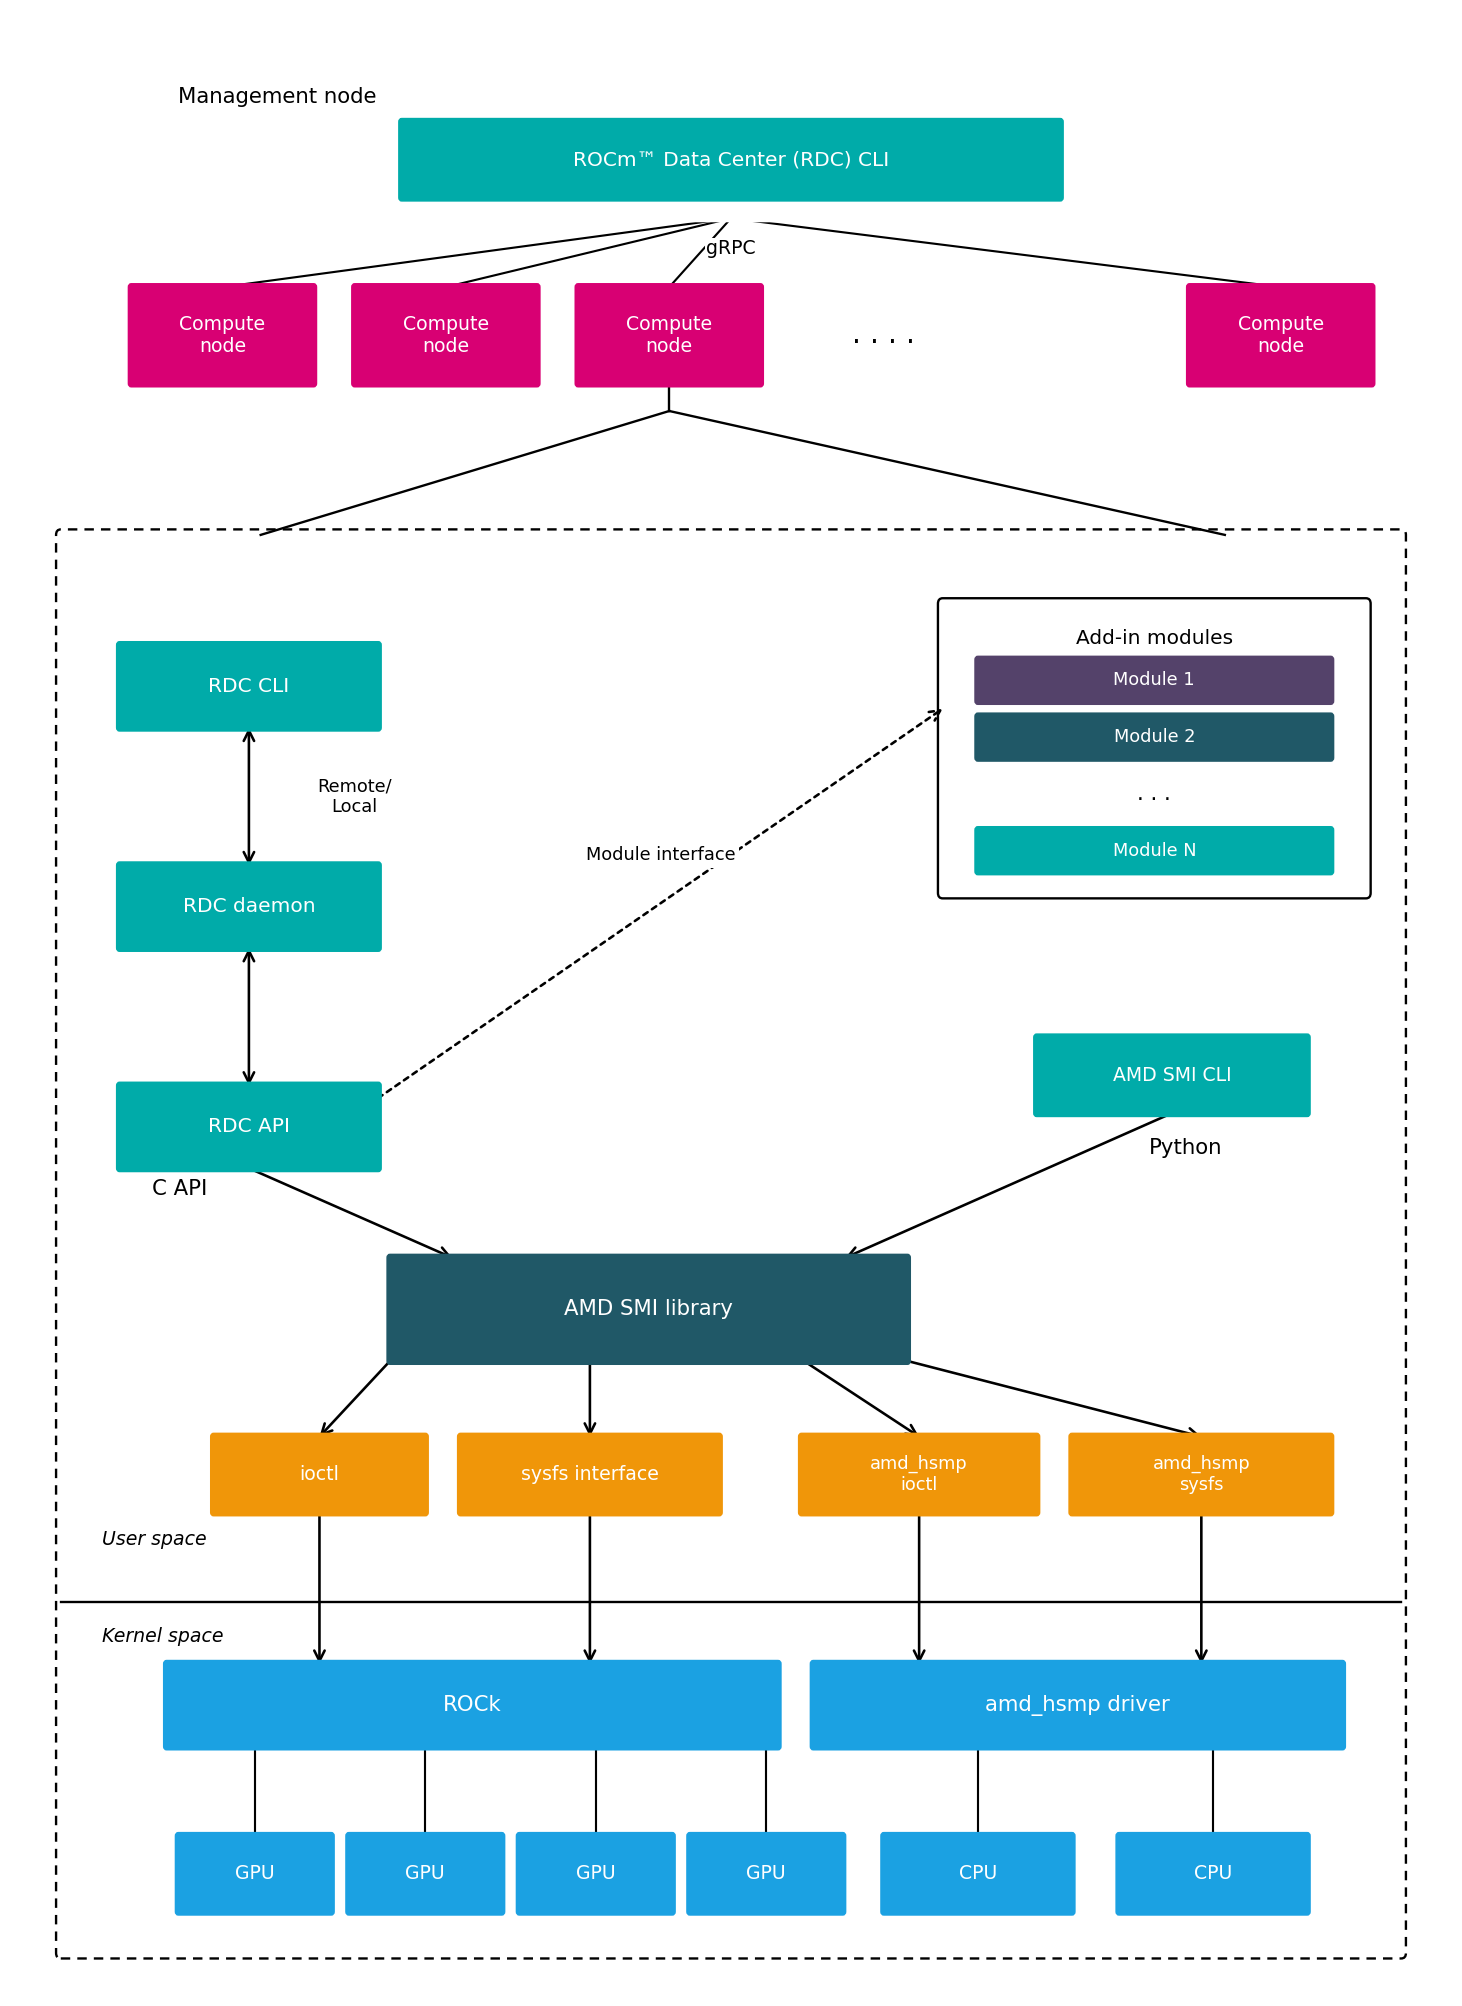
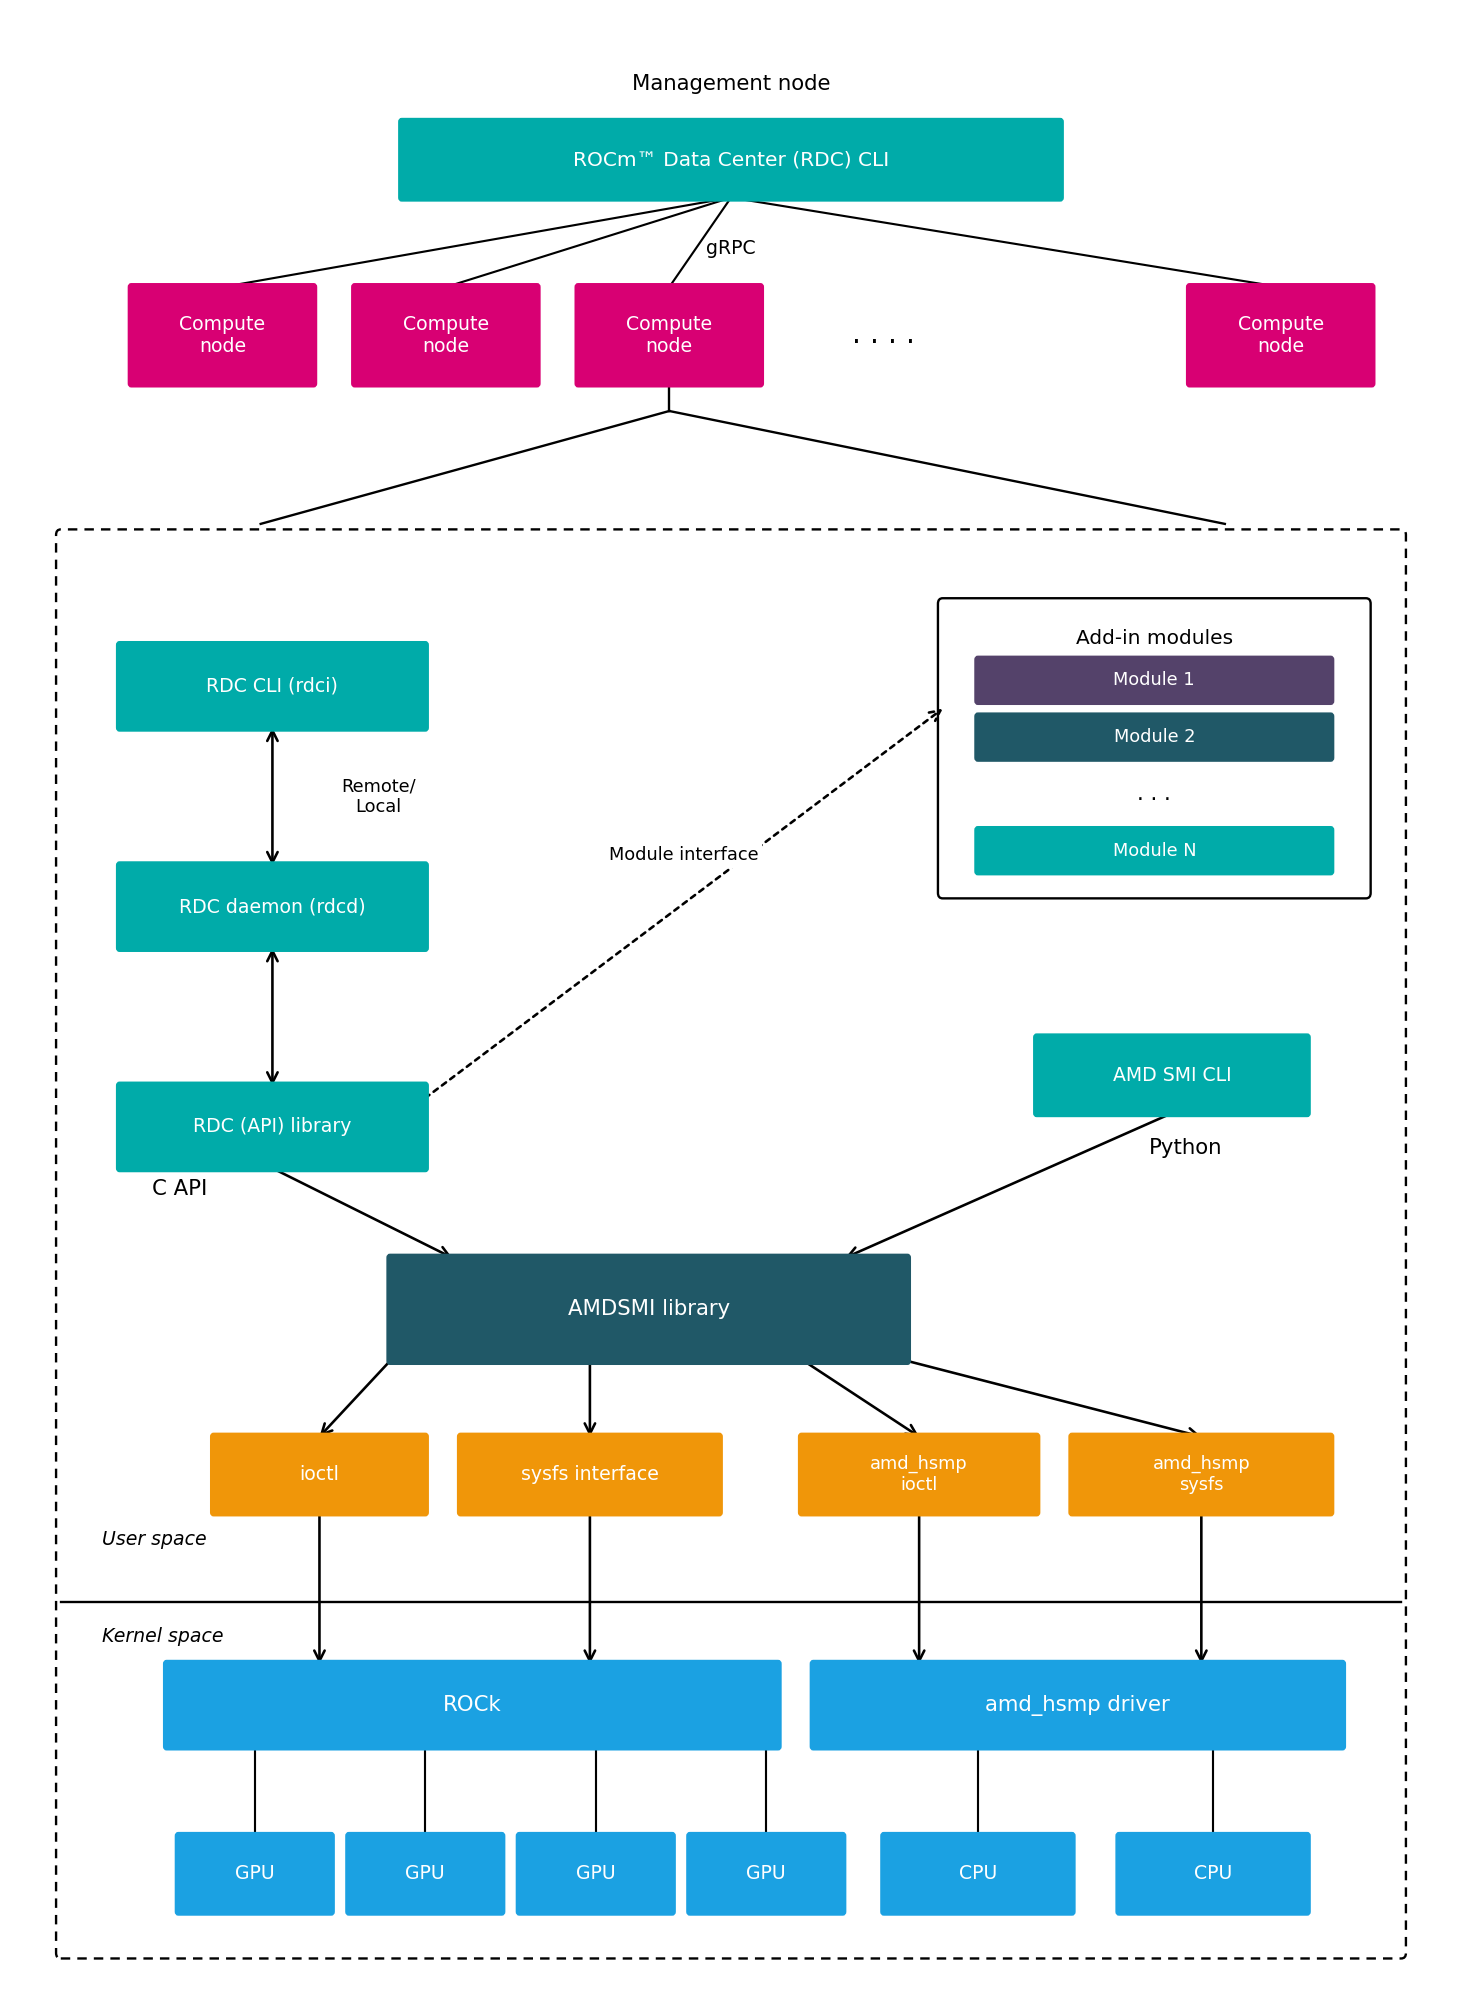
improving the component diagram

diff --git a/projects/rdc/docs/Conceptual/components.rst b/projects/rdc/docs/Conceptual/components.rst
@@ -8,11 +8,11 @@
 RDC components
 ***************
 
-The components of the RDC tool are illustrated in the following figure.
+RDC consists of four main components: the RDC (API) library, the RDC daemon (``rdcd``), the RDC command-line tool (``rdci``), and the AMDSMI library. The following figure illustrates these components and the surrounding architecture they interact with.
 
 .. figure:: ../data/install_components.png
 
-    High-level diagram of RDC components
+    High-level diagram of RDC components and the surrounding architecture
 
 RDC (API) library
 -----------------
